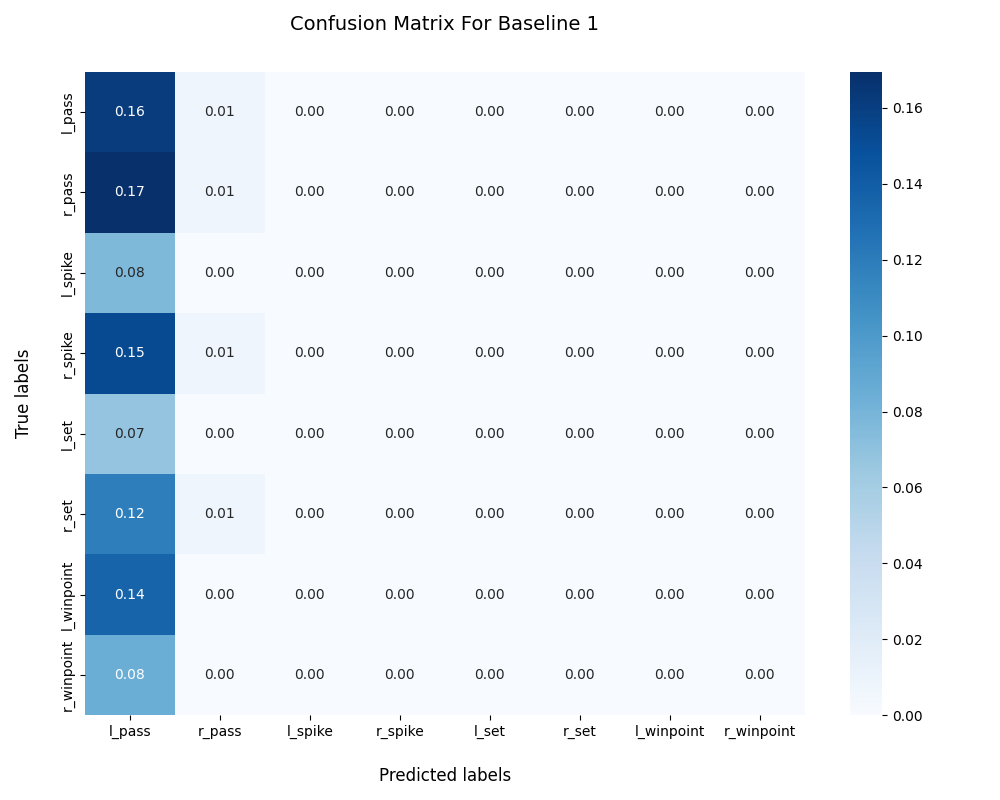
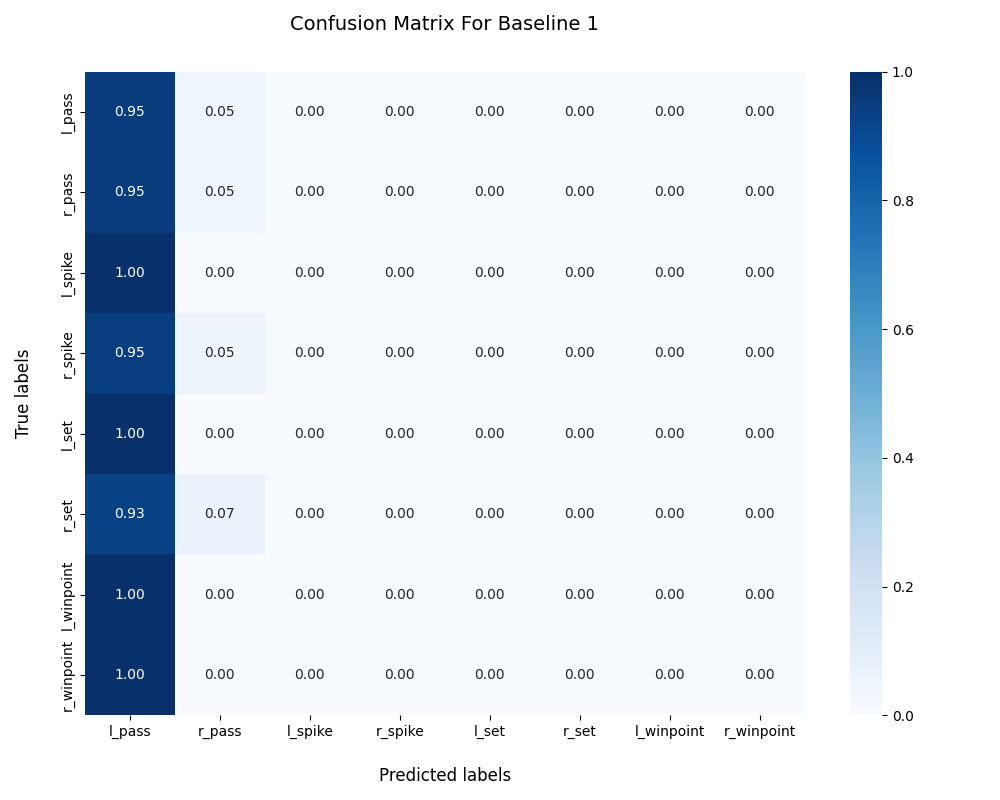
fix checpoint empty dict

diff --git a/scripts/train.py b/scripts/train.py
@@ -7,7 +7,7 @@ from scripts.eval import evaluate
 def train(baseline,model,criterion,optimizer,scheduler,train_loader,val_loader,n_epoch,device):    
     logs=[] # metrics resualt for every epoch 
     checkpoint={} # best checkpoint
-    best_loss=1
+    best_loss=float('inf') 
     def update_checkpint(epoch):
         nonlocal checkpoint
         checkpoint = {
@@ -50,6 +50,7 @@ def train(baseline,model,criterion,optimizer,scheduler,train_loader,val_loader,n
         if loss_avg_val < best_loss:
             update_checkpint(epoch)
             best_loss = loss_avg_val
+            print(f"New Best Model found at epoch {epoch+1}")
 
         print(f"epoch {epoch+1}/{n_epoch}")
         print("Train Resault")
@@ -61,6 +62,13 @@ def train(baseline,model,criterion,optimizer,scheduler,train_loader,val_loader,n
         print(f'accurecy ->{accurecy_val}')
         print(f'loss_avg ->{loss_avg_val}')
         print(f'f1-score ->{f1Score_val}\n')
+
+    print(f"Loading the best model from epoch {checkpoint['epoch']+1}")
+    if isinstance(model, torch.nn.DataParallel):
+        model.module.load_state_dict(checkpoint['model_state_dict']) 
+    else:
+        model.load_state_dict(checkpoint['model_state_dict'])
+
     df=pd.DataFrame(logs,columns=['epoch','accurecy_train','loss_avg_train','f1Score_train','accurecy_val','loss_avg_val','f1Score_val'])
     df.to_csv(f'logs/{baseline}_progress.csv',index=False,float_format='%.2f')    
 

diff --git a/scripts/final_report.py b/scripts/final_report.py
@@ -36,7 +36,7 @@ class Final_Report:
 
     def create_confusion_matrix(self):
         # pass labels to make sure that every class appear in the matrix even if not exits in the labels and pred
-        conv_word = confusion_matrix(self.all_labels, self.all_pred, normalize='all',labels=self.sorted_keys)
+        conv_word = confusion_matrix(self.all_labels, self.all_pred, normalize='true',labels=self.sorted_keys)
         # Plot the heatmap
         plt.figure(figsize=(10, 8)) 
         heatmap(
